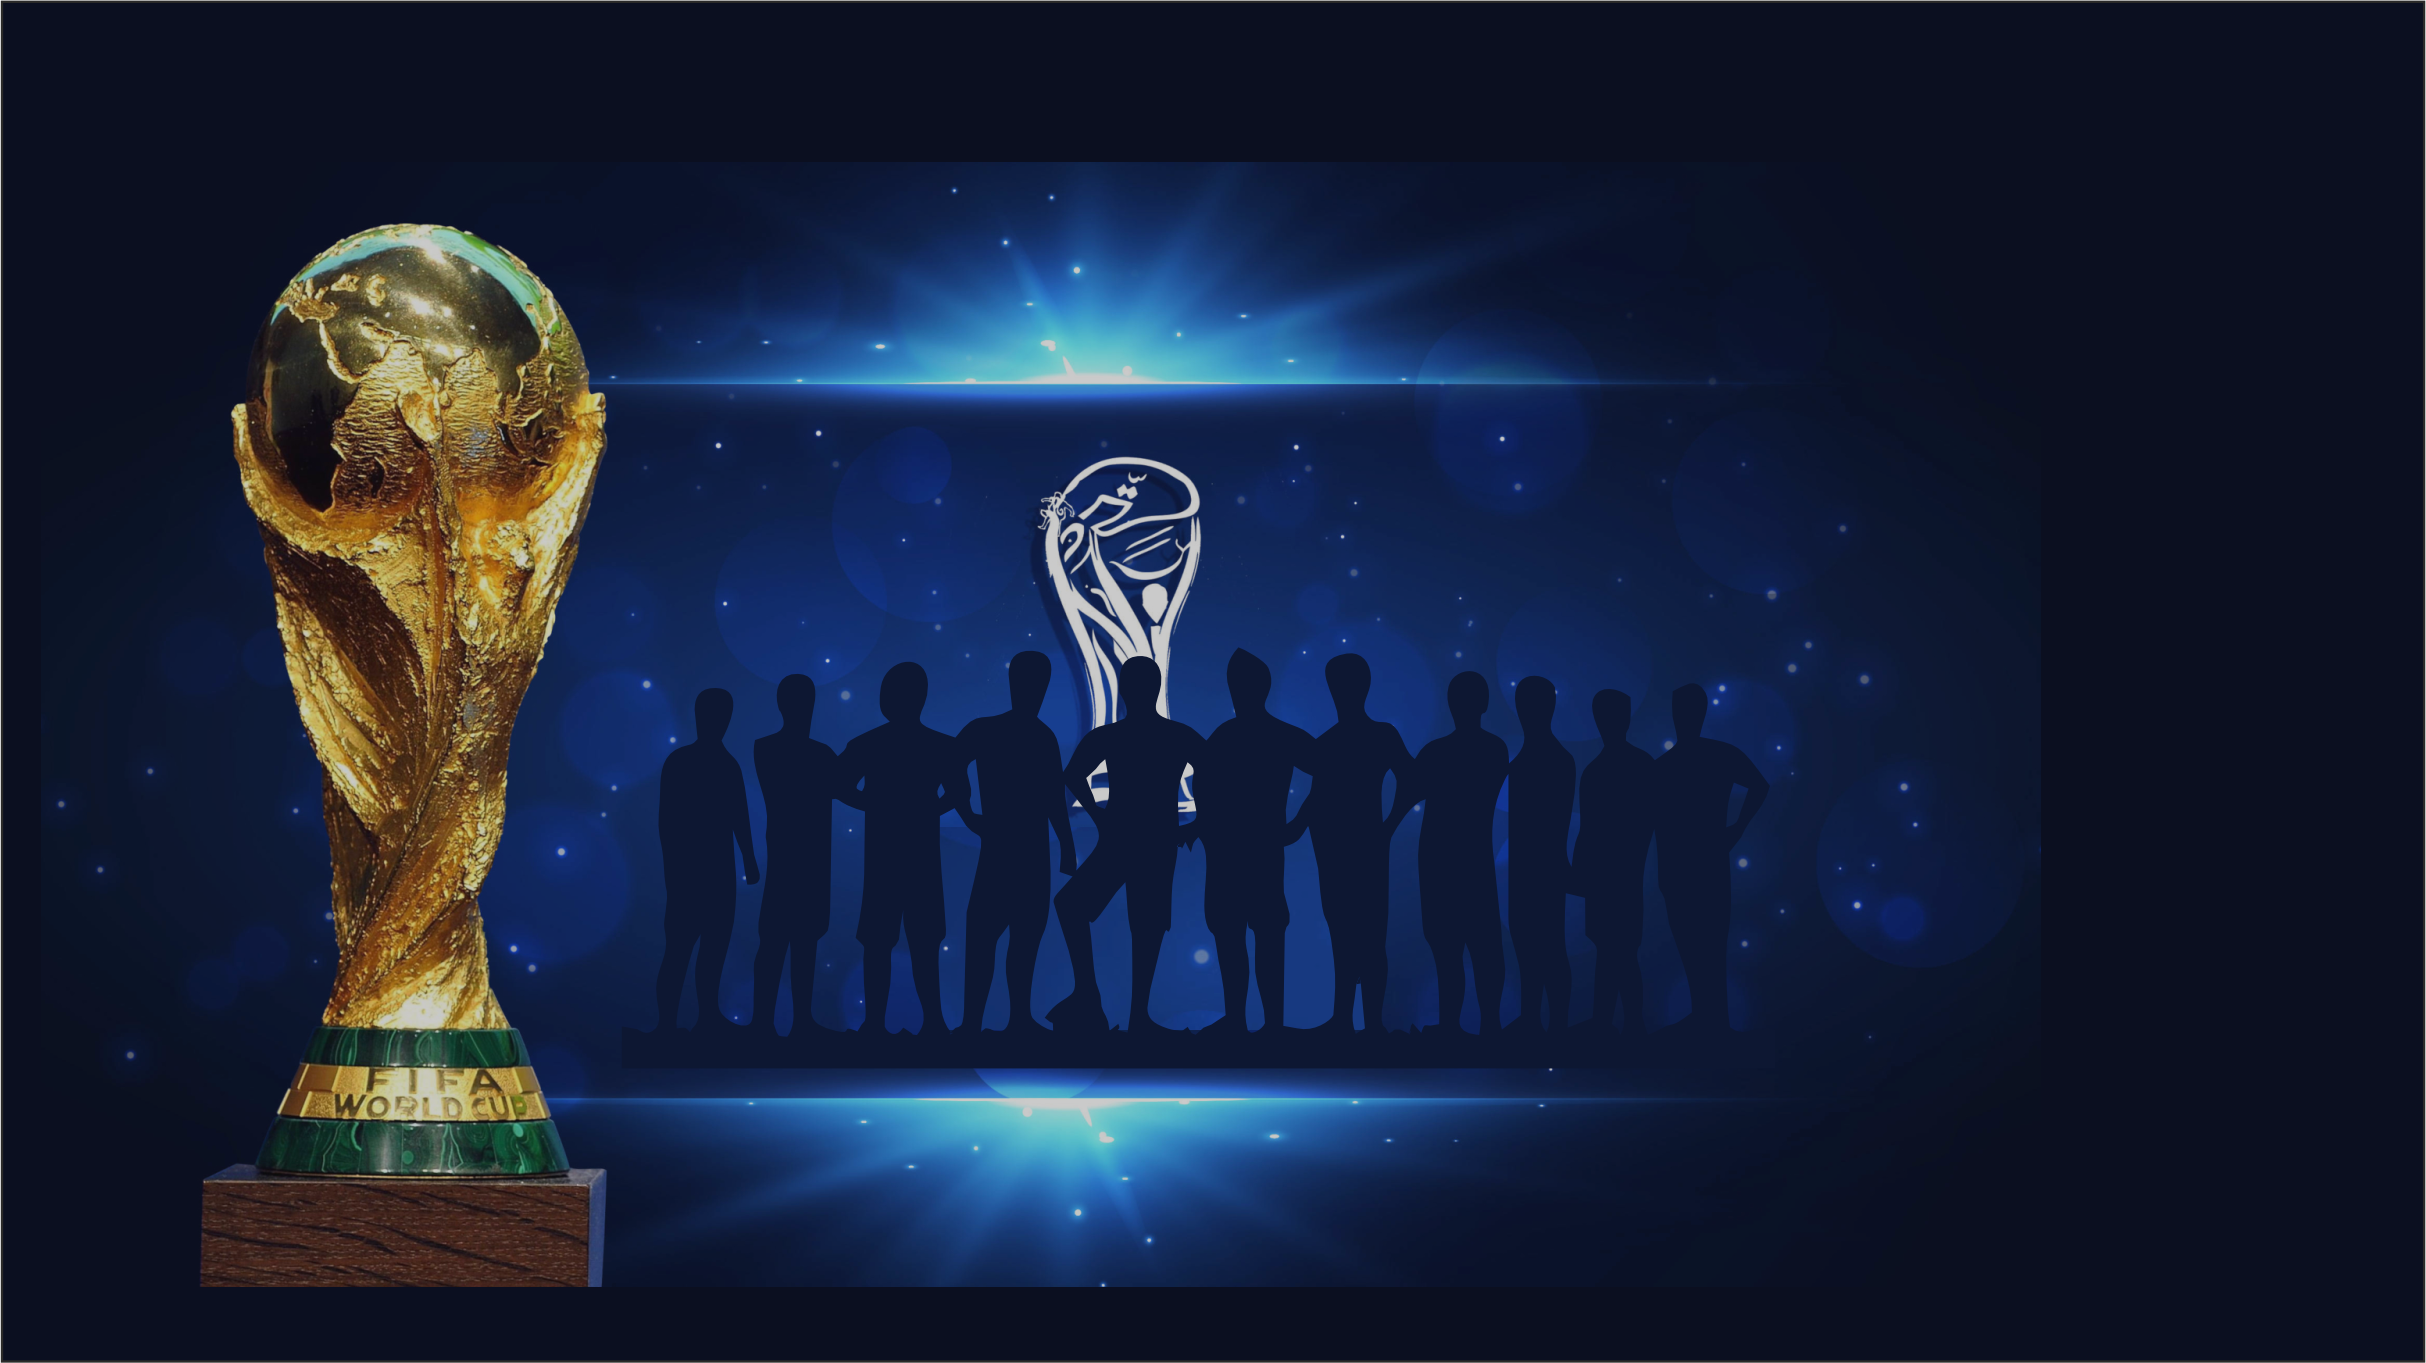
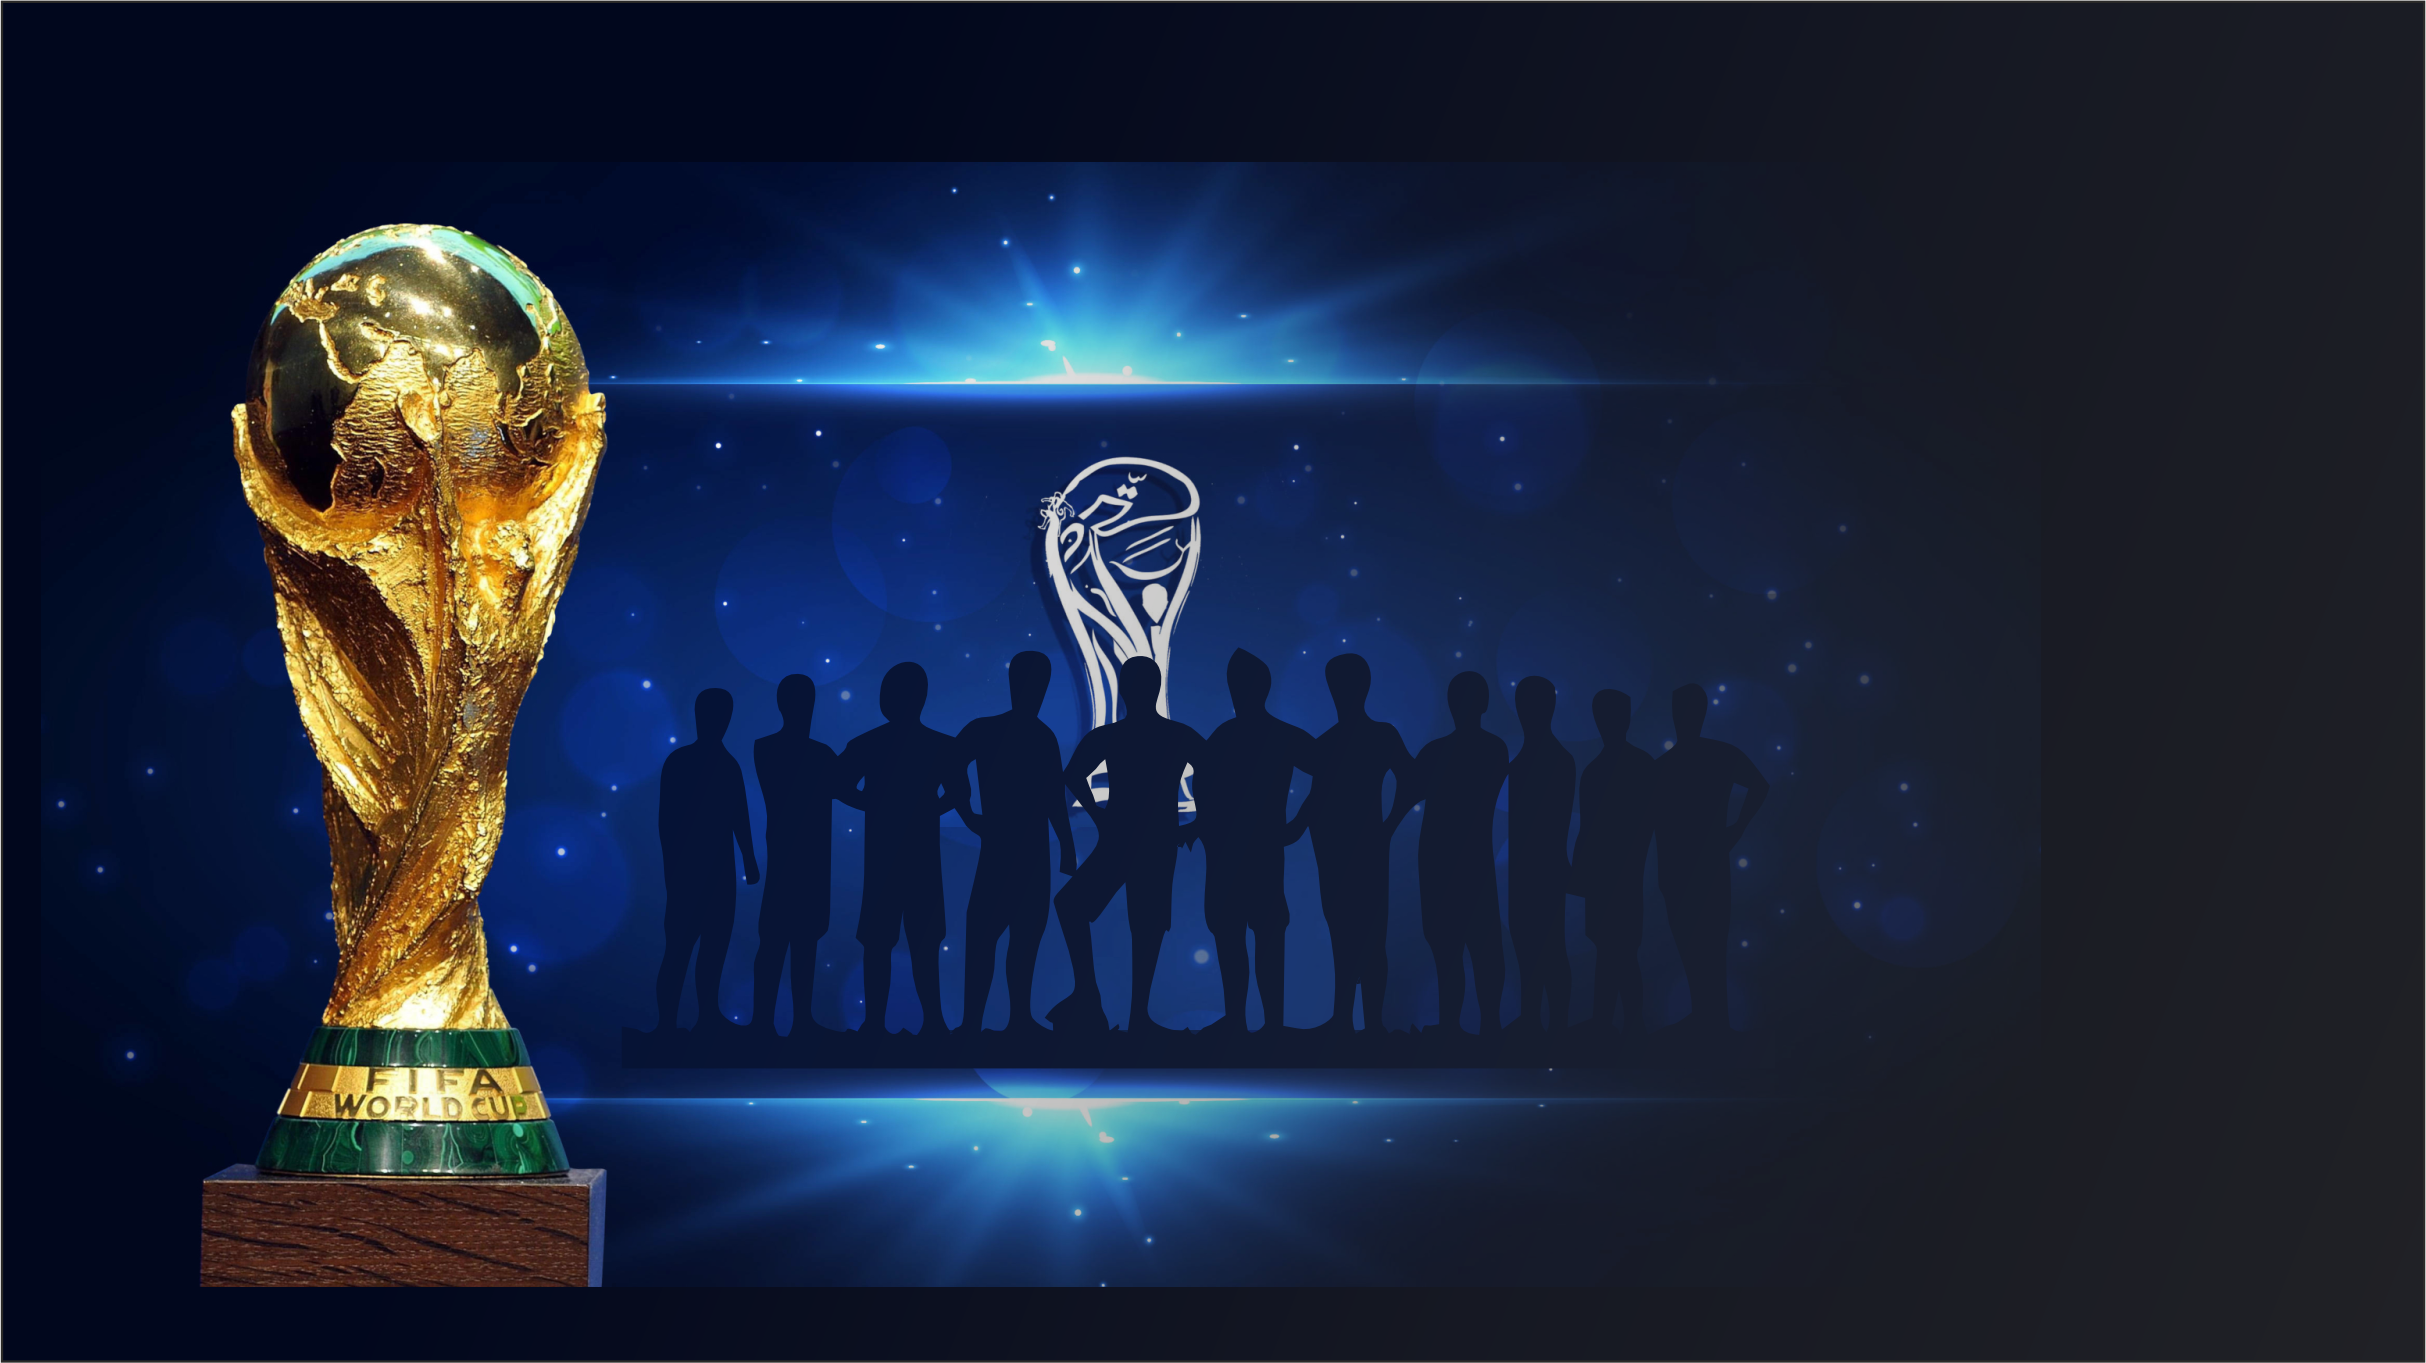
feat: add adaptive fifa and world cup page

Changed region(s): [[0.0927, 0.1541, 0.4328, 0.8628], [0.4946, 0.8012, 0.6183, 0.832], [0.7729, 0.6471, 0.8038, 0.6779]]

diff --git a/src/features/fifa/Fifa.tsx b/src/features/fifa/Fifa.tsx
@@ -13,11 +13,12 @@ type InfoAboutFifa = {
 
 const infoAboutFifa : InfoAboutFifa = {
   title: 'International Federation of Association Football',
-  description: 'FIFA, is the international self-regulatory governing body of association football, beach soccer, and futsal. It was founded in 1904. Its membership now comprises 211 national associations. These national associations must also be members of one of the six regional confederations: CAF (Africa), AFC (Asia and Australia), UEFA (Europe), CONCACAF (North & Central America and the Caribbean), OFC (Oceania), and CONMEBOL (South America).',
-  tournaments: "FIFA is responsible for organizing football's international tournaments, notably the ",
-  cup: 'World Cup'
+  description: 'FIFA, is the international self-regulatory governing body of association football, beach soccer, and futsal. It was founded in 1904. Its membership now comprises 211 national associations (six regional confederations: CAF (Africa), AFC (Asia and Australia), UEFA (Europe), CONCACAF (North & Central America and the Caribbean), OFC (Oceania), and CONMEBOL (South America)).',
+  tournaments: "is the most important tournament by FIFA",
+  cup: 'World Cup - '
 }
 
+const description = infoAboutFifa.description.split('.')
 
 export const Fifa = () => {
   return (
@@ -25,14 +26,17 @@ export const Fifa = () => {
       <Background image={fifaImage}/>
       <div className={s.wrapperContent}>
         <h2 className={s.title}>{infoAboutFifa.title}</h2>
-        <p className={s.description}>{infoAboutFifa.description}</p>
-        <p className={s.tournaments}>
-          {infoAboutFifa.tournaments} 
-          <span className={s.cup}>{infoAboutFifa.cup.toUpperCase()}</span>
-        </p>
-        <NavLink to={'/fifa/world-cup'}>
-          <img className={s.image} src={cupImage} alt="world cup image" />
-        </NavLink>
+        <p className={s.description}>{description[0]}</p>
+        <p className={s.description}>{description[1]}</p>
+        <p className={s.description}>{description[2]}</p>
+        <p className={s.description}>{description[3]}</p>
+        <div className={s.containerTournaments}>
+          <NavLink to={'/fifa/world-cup'} className={s.link}>
+            <img className={s.image} src={cupImage} alt="world cup image" />
+            <span className={s.cup}>{infoAboutFifa.cup.toUpperCase()}</span>
+          </NavLink>
+          <p className={s.tournaments}>{infoAboutFifa.tournaments}</p>
+        </div>
       </div>
     </div>
   )

diff --git a/src/features/fifa/Fifa.module.css b/src/features/fifa/Fifa.module.css
@@ -1,61 +1,129 @@
 .wrapper {
   color: white;
   width: 100%;
+  height: 100vh;
   position: relative;
 }
 
 .wrapperContent {
   position: absolute;
   top: 80px;
-  left: 0px;
+  left: 20px;
+  margin-right: 20px;
   display: flex;
   flex-direction: column;
-  gap: 20px;
+  gap: 15px;
 }
 
 
 .title {
-  margin-top: 20px;
+  margin: 40px 0 40px 0;
   padding: 20px;
-  font-size: 50px;
-  max-width: 600px;
+  font-size: 35px;
+  max-width: 550px;
   width: 100%;
   line-height: 70px;
-  text-align: center;
-  color: rgb(85, 85, 234);
+  text-align: left;
+  color: #b2c3fe;
+  text-transform: uppercase;
+  border: 1px solid grey;
+  border-radius: 50px 0;
+  box-shadow: 0 0 10px 5px rgba(200, 200, 200, 0.5);
+  background: rgba(0, 0, 0, 0.5);
 }
 
 .description {
-  margin-top: 10px;
-  padding: 20px;
-  font-size: 16px;
-  max-width: 700px;
+  padding: 0 10px;
+  font-size: 18px;
+  max-width: 600px;
   width: 100%;
   line-height: 30px;
+  font-style: italic;
+}
+
+.containerTournaments {
+  padding: 20px;
+  color: #b2c3fe;
+  display: flex;
+  align-items: center;
+  flex-wrap: wrap;
 }
 
 .tournaments {
-  padding: 20px;
-  font-size: 16px;
-  max-width: 700px;
-  width: 100%;
-  line-height: 20px;
+  font-size: 20px;
+  line-height: 30px;
+  font-style: italic;
+  padding: 10px;
 }
 
 .cup {
-  font-size: 26px;
+  margin-left: 10px;
+  padding: 10px;
+  font-size: 20px;
   color: yellow;
   font-weight: 600;
-  line-height: 40px;
+  line-height: 30px;
+  background-color: #2f3209;
+  border-radius: 10px 0;
 }
 
+.cup:hover {
+  background-color: #575405;
+  border-radius: 10px 0;
+  box-shadow: 0px 0px 5px 5px rgba(249, 255, 90, 0.5);
+  transition: all 0.5s;
+  } 
+
 .image {
-  height: 80px;
+  width: 20px;
   cursor: pointer;
-  position: absolute;
-  bottom: -10px;
-  left: 180px;
+  transition: all 0.5s;
 }
+
+.image:hover {
+  scale: 1.2;
+} 
+
+.link {
+  display: flex;
+  gap: 10px;
+}
+
+
+
+@media (max-width: 400px) {
+  .wrapperContent {
+    position: absolute;
+    top: 60px;
+    gap: 10px;
+  }
+
+  .title {
+    margin: 15px 0 15px 0;
+    padding: 10px;
+    font-size: 25px;
+    line-height: 50px;
+    text-align: center;
+    border-radius: 30px 0;
+  }
+
+  .description {
+    font-size: 16px;
+    line-height: 25px;
+  }
+
+  .cup {
+    padding: 10px;
+    font-size: 16px;
+    line-height: 25px;
+  }
+
+  .tournaments {
+    font-size: 14px;
+    line-height: 25px;
+  }
+}
+
 
 
 

diff --git a/src/features/fifa/worldCup/WorldCup.module.css b/src/features/fifa/worldCup/WorldCup.module.css
@@ -1,44 +1,87 @@
 .wrapper {
   width: 100%;
+  height: 100vh;
   position: relative;
 }
 
 .wrapperContent {
   position: absolute;
-  top: 200px;
-  left: 400px;
+  display: flex;
+  flex-direction: column;
+  justify-content: center;
+  align-items: center;
+  top: 0;
+  left: 0;
+  right: 0;
+  bottom: 0;
+  margin: 10px;
+}
+
+.title {
+  text-align: center;
+  color: yellowgreen;
+  font-size: 40px;
+  line-height: 60px;
+  margin-bottom: 40px;
+  text-transform: uppercase;
 }
 
 .containerTournaments {
   display: flex;
   flex-wrap: wrap;
-  gap: 10px;
-  background-color: rgba(25, 107, 73, 0.5);
-  max-width: 760px;
+  gap: 20px;
+  justify-content: space-around;
+  background-color: rgba(10, 102, 45, 0.3);
+  border: 1px solid rgba(109, 114, 3, 0.8);
+  box-shadow: 0 0 15px 5px rgba(0, 0, 0, 0.8);
+  max-width: 700px;
   padding: 20px;
-  margin-top: 20px;
   border-radius: 40px 0;
 }
 
-.title {
-  text-align: center;
-  color: yellow;
-  font-size: 40px;
-  margin-bottom: 40px;
-}
-
 .item {
-  padding: 5px 10px;
+  padding: 10px 30px;
   transition: all 0.5s;
+  border: 1px solid rgba(109, 114, 3, 0.7);
+  background-color: rgba(10, 102, 45, 0.6);
+  border-radius: 20px 0;
 }
 
 .item a {
-  color: yellowgreen;
+  color: gold;
   font-size: 20px;
   font-weight: 600;
 }
 
 .item:hover {
   background-color: #575405;
-  border-radius: 10px 0;
+  box-shadow: 0px 0px 5px 5px rgba(0, 0, 0, 0.5);
+  transform: scale(1.1);
+}
+
+
+@media (max-width: 1000px) {
+  .wrapperContent {
+    margin-top: 80px;
+  }
+
+  .containerTournaments {
+    gap: 15px;
+    padding: 10px;
+    border-radius: 30px 0;
+  }
+
+  .title {
+    font-size: 35px;
+    line-height: 50px;
+    margin-bottom: 20px;
+  }
+
+  .item {
+    padding: 5px 20px;
+  }
+
+  .item a {
+    font-size: 18px;
+  }
 }

diff --git a/src/common/components/background/Background.module.css b/src/common/components/background/Background.module.css
@@ -1,7 +1,7 @@
 .container {
   height: 100%;
   width: 100%;
-  opacity: 0.5;
+  opacity: 0.6;
 }
 
 .image {
